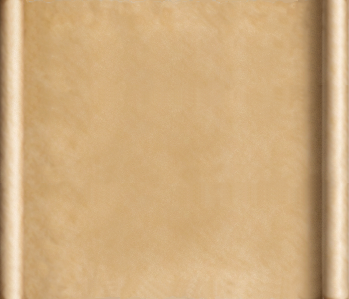
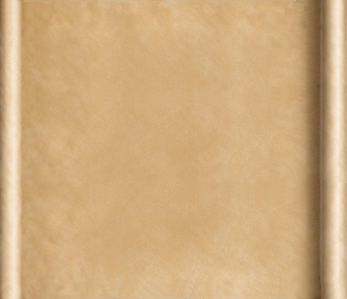
Add files via upload

Changed region(s): [[0.0, 0.0, 0.0865, 1.0], [0.9798, 0.9933, 1.0, 1.0]]

diff --git a/style.css b/style.css
@@ -91,7 +91,7 @@ section {
 
 #papirus-1 {
   width: 95.5%;
-  min-height: 325px;
+  min-height: 345px;
   margin-top: -20px;
   margin: 10px;
   background: linear-gradient(cornflowerblue, blue);
@@ -124,7 +124,7 @@ section {
 
 #papirus-2 {
   width: 95.5%;
-  min-height: 325px;
+  min-height: 345px;
   margin-top: -20px;
   margin: 10px;
   background: linear-gradient(cornflowerblue, blue);
